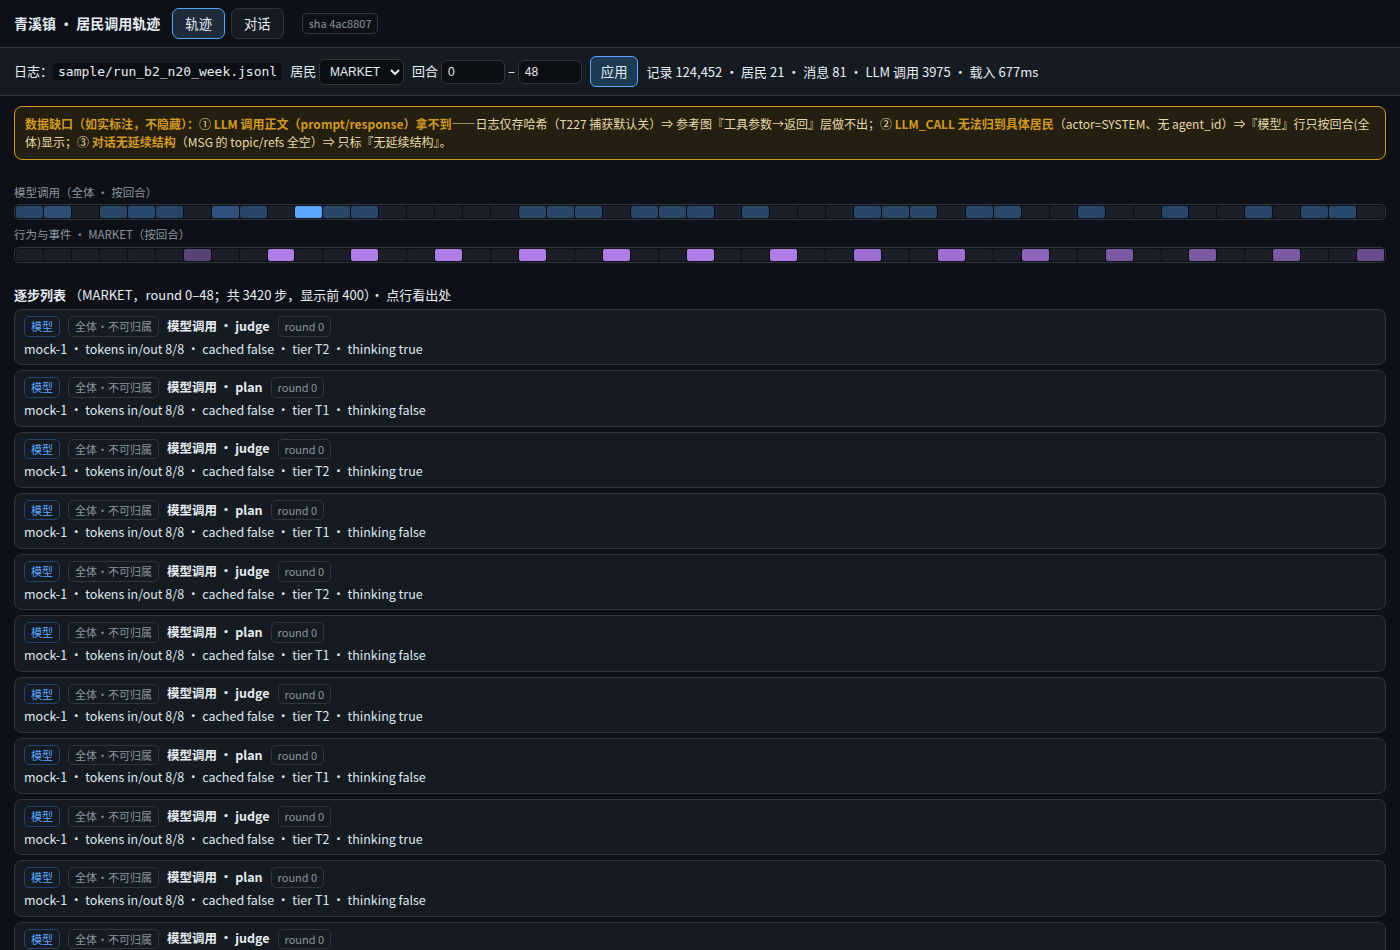
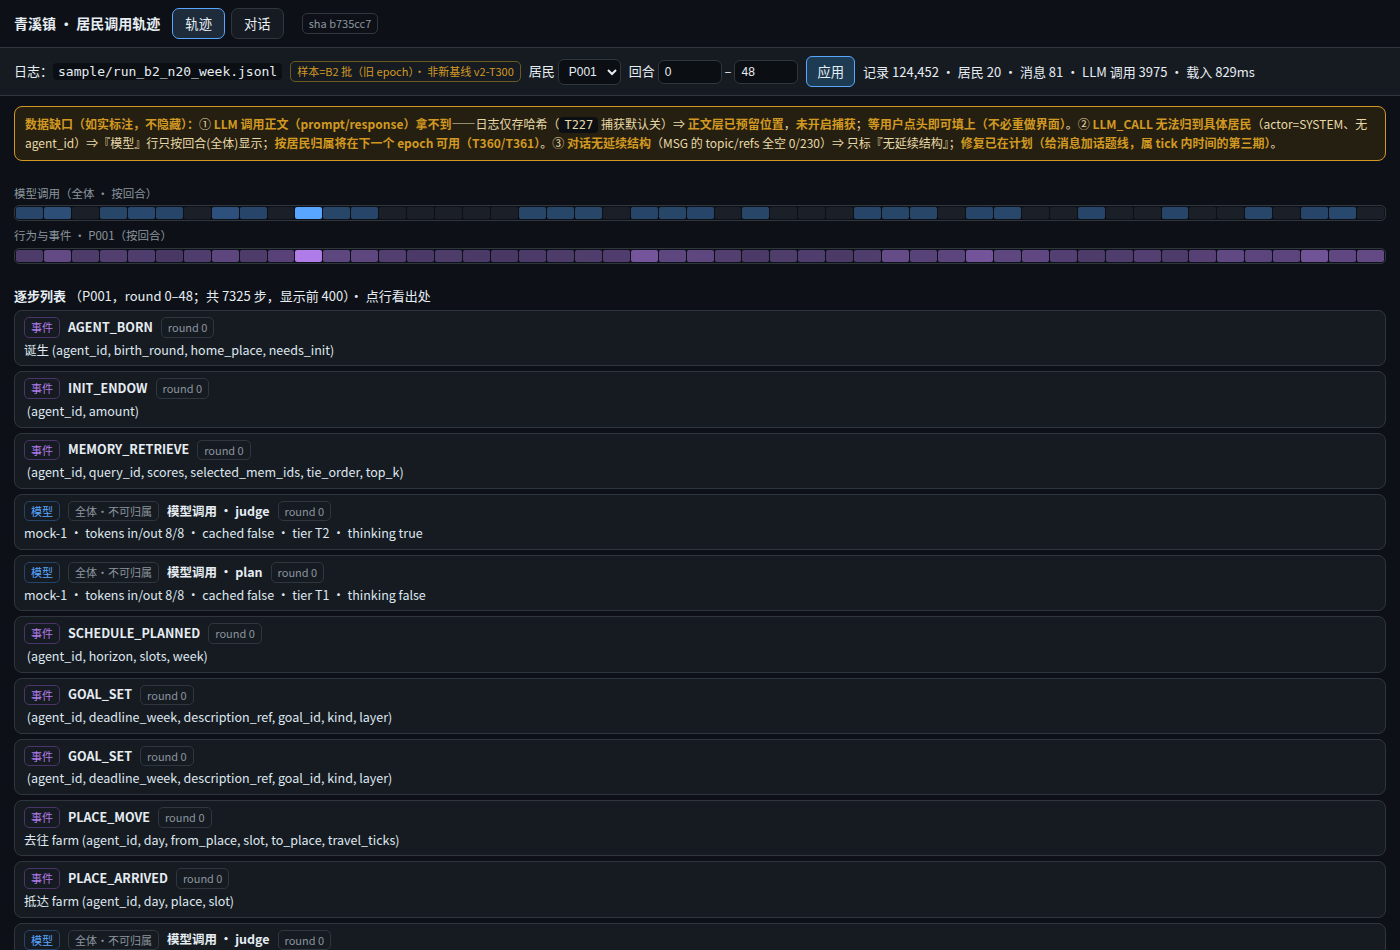
T359 [frontend-dev]: trace v1 补 样本provenance(B2旧epoch非v2-T300)+三缺口标注升级(预留位/T360T361/第三期) -- code/frontend/trace.html v2/evidence/T359-agent-trace-view.md

Changed region(s): [[0.0, 0.1221, 0.9829, 1.0], [0.1843, 0.0611, 0.8907, 0.0916], [0.2457, 0.0, 0.2764, 0.0305]]

diff --git a/code/frontend/trace.html b/code/frontend/trace.html
@@ -44,6 +44,7 @@
 </header>
 <div class="ctl">
  <span>日志：<code id="logname"></code></span>
+ <span class="tag" id="prov" style="border-color:#6b5a1f;color:#d29922"></span>
  <label>居民 <select id="agent"></select></label>
  <label>回合 <input id="r0" type="number" value="0" style="width:64px"> – <input id="r1" type="number" value="48" style="width:64px"></label>
  <button class="btn" id="apply">应用</button>
@@ -64,11 +65,18 @@ const esc = s => String(s==null?"":s).replace(/[&<>]/g,c=>({"&":"&amp;","<":"&lt
 const el = id => document.getElementById(id);
 
 document.getElementById("logname").textContent = LOG;
+// 样本 provenance（口径不混）：明确这是哪一批/epoch，别与新基线 v2-T300 混。
+document.getElementById("prov").textContent = /run_b2/.test(LOG)
+  ? "样本=B2 批（旧 epoch）· 非新基线 v2-T300"
+  : (/t300/.test(LOG) ? "样本=T300 产物" : "样本来源见文件名");
 
 async function boot(){
   // 版本角标（可追溯）
   try { const g = await (await fetch("/__gitstamp",{cache:"no-store"})).json(); el("stamp").textContent = "sha "+g.sha; } catch(e){}
-  el("gaps").innerHTML = "<b>数据缺口（如实标注，不隐藏）：</b>① <b>LLM 调用正文（prompt/response）拿不到</b>——日志仅存哈希（T227 捕获默认关）⇒ 参考图『工具参数→返回』层做不出；② <b>LLM_CALL 无法归到具体居民</b>（actor=SYSTEM、无 agent_id）⇒『模型』行只按回合(全体)显示；③ <b>对话无延续结构</b>（MSG 的 topic/refs 全空）⇒ 只标『无延续结构』。";
+  el("gaps").innerHTML = "<b>数据缺口（如实标注，不隐藏）：</b>" +
+    "① <b>LLM 调用正文（prompt/response）拿不到</b>——日志仅存哈希（<code>T227</code> 捕获默认关）⇒ <b>正文层已预留位置</b>，<b>未开启捕获</b>；<b>等用户点头即可填上（不必重做界面）</b>。" +
+    "② <b>LLM_CALL 无法归到具体居民</b>（actor=SYSTEM、无 agent_id）⇒『模型』行只按回合(全体)显示；<b>按居民归属将在下一个 epoch 可用（T360/T361）</b>。" +
+    "③ <b>对话无延续结构</b>（MSG 的 topic/refs 全空 0/230）⇒ 只标『无延续结构』；<b>修复已在计划（给消息加话题线，属 tick 内时间的第三期）</b>。";
   if (TAB==="conv"){ el("tab-conv").classList.add("active"); el("tab-trace").classList.remove("active"); }
   await loadLog();
 }

diff --git a/v2/evidence/T359-agent-trace-view.md b/v2/evidence/T359-agent-trace-view.md
@@ -23,3 +23,11 @@
 
 ## 证据
 `T359-trace-view.png`（轨迹）/ `T359-trace-conv.png`（对话）；页面/数据源可追（页头 sha + 每行出处）。
+
+## 依 Leader 裁定补强（13:27）
+- **样本 provenance**：页面角标标明 **「样本=B2 批（旧 epoch）· 非新基线 v2-T300」**（口径不混）。
+- **缺口标注升级为"在路上的缺口"**：
+  - ① LLM 正文：**正文层已预留位置**，未开启捕获（`T227` 默认关），**等用户点头即可填**（不必重做界面）；
+  - ② LLM 归属居民：**按居民归属将在下一个 epoch 可用（`T360`/`T361`）**；
+  - ③ 对话延续：**修复已在计划**（给消息加话题线，属 **tick 内时间的第三期**）。
+- 数据仍为**真实日志**（无占位）。
